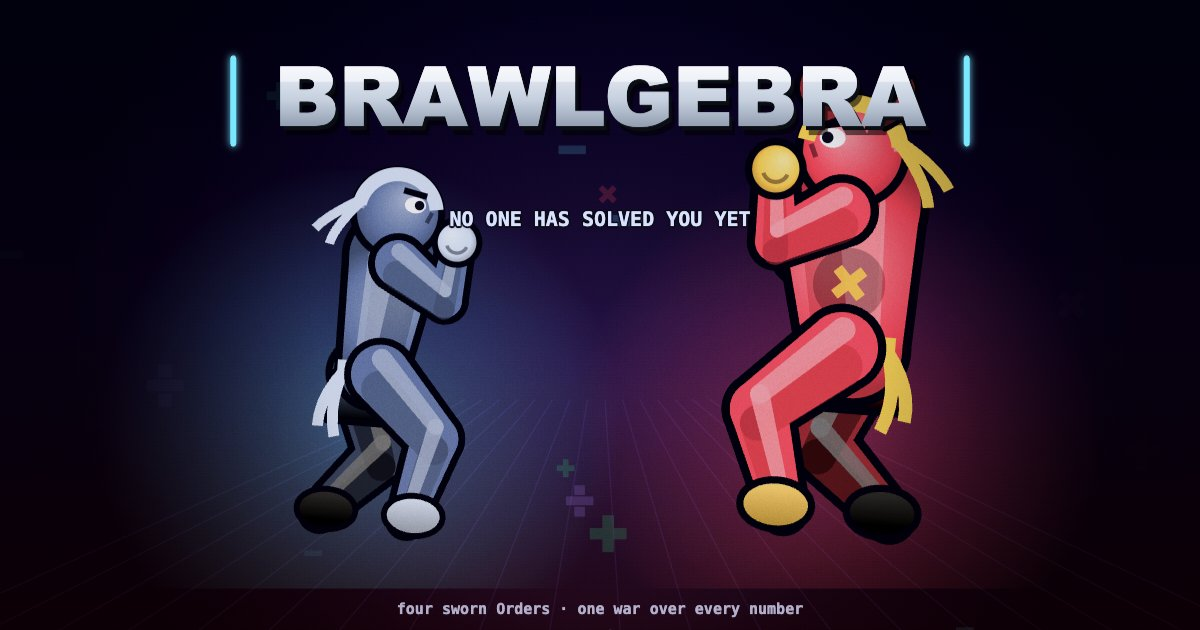
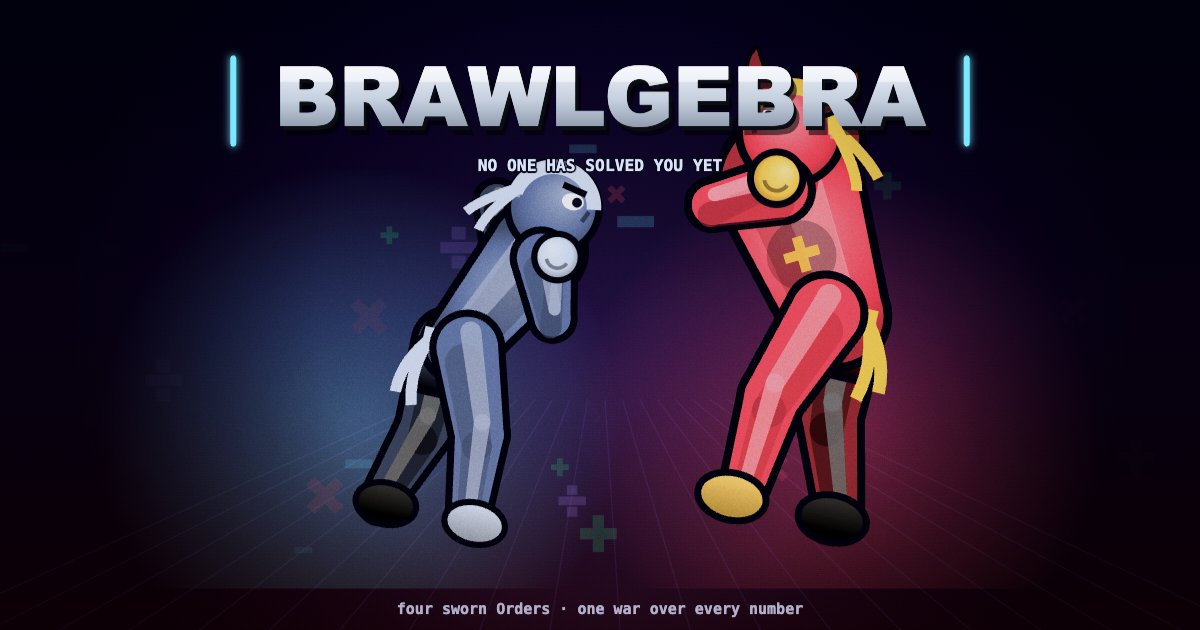
visual pass 2/2: the art-director worklist — 13 ranked fixes from a 4-critic screenshot review
Four design critics reviewed 23 real 960x540 screenshots of every screen; a lead art director synthesized their findings into a ranked, code-anchored worklist. Landed:
#1 Dev text can no longer ship inside the Steam art: the keyart hint/toast are gated behind !_exportLock, so all 8 exported capsules + og-image render clean. Tagline moved off the fighters' heads into the lockup.
#2/#3 Select screen: the card's bottom stack (SPECIALS/style chip/sig lines) now ends inside the 330px card; the sealed padlock moved off the fighter's NAME into the dimmed portrait.
#4 Records rebuilt as two full-width bands — best scores in a 3x2 grid, achievements in a CLIPPED 2x6 grid (two critics called the old overflowing panel 'the definitive no-studio-touched-this shot'); rewards inset inside the panel.
#5 Trailer HUD rides 52px below the letterbox — health bars, names, and the timer were being decapitated at y=46 in every trailer gameplay shot.
#6 Chip/quote/card lanes separated: tagged story shots lift their quote to H-170; fight-shot chip subs width-clamp so they never slide under the math card.
#7 Pause owns the frame: scrim 0.72→0.92, fight text layers (card/tips/control column) stand down while paused, THINGS TO TRY re-spaced to a 30px rhythm.
#8 Dialogue speaker names ride a bordered TAB that notches the panel — no more strikethrough baseline on every story line.
#9 Special-announce banners sit on a scrim pill with width-clamped type — a red banner now survives a red sunset.
[…]

Changed region(s): [[0.2467, 0.0905, 0.8017, 0.8746], [0.4625, 0.7238, 0.5242, 0.8746]]

diff --git a/index.html b/index.html
@@ -2464,7 +2464,8 @@ function drawFighter(f){
     const tc = lv==='high'?'#ff9f2a' : lv==='low'?'#2ea8ff' : '#ff4040';
     const popS = f.attack.pop>0? eoBack(1-f.attack.pop/8):1;
     const by = f.y-182 - Math.abs(Math.sin(game.frame*0.18))*7;
-    ctx.save(); ctx.translate(f.x,by); ctx.scale(popS,popS);
+    const _th=(W/2)/cam.z, _tx=clamp(f.x, cam.x-_th+52, cam.x+_th-52);   // the read must stay whole even at the camera edge
+    ctx.save(); ctx.translate(_tx,by); ctx.scale(popS,popS);
     txtO('!',0,0,30,tc,{sw:5});
     if(lv!=='mid') txtO(lv==='high'?'▲ HIGH':'▼ LOW',0,18,10,tc,{mono:true,sw:0});
     ctx.restore();
@@ -4069,14 +4070,15 @@ function hpBar(f, side){ // side: 1 = left, -1 = right
   ctx.textAlign= side===1?'left':'right';
   const nx = side===1? 40 : W-40;
   ctx.fillText(f.name, nx, 76);
+  const _nw=ctx.measureText(f.name).width;   // pips sit off the MEASURED name — hard-coded 110 landed them inside 'MAXIMILIAN'
   const wins = side===1? game.pWins||0 : game.eWins||0;
   for(let i=0;i<2;i++){
-    const px = side===1? 110+i*16 : W-110-i*16;
+    const px = side===1? 40+_nw+16+i*16 : W-40-_nw-16-i*16;
     ctx.save(); ctx.translate(px,71); ctx.rotate(Math.PI/4);
     ctx.fillStyle = wins>i? (side===1?'#ffd34d':'#ff7a4d') : 'rgba(255,255,255,0.14)';
     ctx.fillRect(-4,-4,8,8); ctx.restore();
   }
-  if(f===game.player && !game.galaxy && !game.cinema){ // CONTROL COLUMN (top-left): the non-obvious keys + your 3-special ladder, lit only by what your AURA can pay for (hidden in cinema/trailer — it's teaching UI, not footage)
+  if(f===game.player && !game.galaxy && !game.cinema && !game.paused){ // CONTROL COLUMN (top-left): the non-obvious keys + your 3-special ladder, lit only by what your AURA can pay for (hidden in cinema/trailer/pause — it's teaching UI, not footage)
     const kit=spKitFor(f.char), bt=bestSpecialTier(f);
     ctx.textAlign='left'; ctx.textBaseline='alphabetic';
     let cy=98;
@@ -4462,12 +4464,15 @@ function drawBanners(){
     ctx.restore();
     if(game.mathT<120) txtO('Q.E.D.', W/2, 300, 16, '#ffd34d',{mono:true,sw:3});
   }
-  if(game.banner){ // announcements (PERFECT DODGE etc.)
+  if(game.banner){ // announcements (PERFECT DODGE etc.) — on a scrim pill, width-clamped, so a red banner survives a red sunset
     const b=game.banner, p=clamp(b.t*5,0,1);
     ctx.save(); ctx.translate(W/2,180);
     ctx.scale(eoBack(p),eoBack(p));
     ctx.globalAlpha = b.t<0.65?1:1-(b.t-0.65)/0.35;
-    txtO(b.txt,0,0,38,b.col,{sw:6});
+    ctx.font=font(DISP,38); const _bw=ctx.measureText(b.txt).width;
+    const _bs=_bw>W-160? 30:38, _bw2=_bs===38?_bw:ctx.measureText(b.txt).width*30/38;
+    ctx.fillStyle='rgba(4,5,12,0.55)'; rr(-_bw2/2-18,-34,_bw2+36,46,8); ctx.fill();
+    txtO(b.txt,0,0,_bs,b.col,{sw:8});
     ctx.restore(); ctx.globalAlpha=1;
   }
 }
@@ -4500,7 +4505,7 @@ function drawVS(t){ // round-1 splash — names crash in from the wings
   if(game._glossShow && VS_GLOSS[game.enemy.char.id] && t>0.62)
     txtO('▸ '+VS_GLOSS[game.enemy.char.id], W/2, 344, 12, '#7ae8ff',{mono:true,sw:0,alpha:clamp((t-0.62)*3,0,1)});   // v5 #14 the matchup gloss — the roster's best argument, finally stated
 }
-function diffRect(i){ return {x:W/2-186+i*128, y:466, w:118, h:18}; }
+function diffRect(i){ return {x:W/2-186+i*128, y:478, w:118, h:18}; }
 function startRect(){ return {x:W/2-150, y:446, w:300, h:50}; }
 const TAGS=['Draw. Hold. Erase.',
   'They mastered one operation. You will master four.',
@@ -4543,7 +4548,7 @@ function drawDailyBadge(){     // surfaces the Daily + at-risk streak EXACTLY wh
   const pulse = 0.6+Math.sin(game.frame*0.12)*0.4;
   let line1, col1, line2='';
   if(!playedToday){
-    line1="◆ TODAY'S FIGHT — NOT PLAYED YET"; col1='#22D3EE';
+    line1="◆ TODAY'S FIGHT — NOT PLAYED YET"; col1='#7ae8ff';
     if(st.n<=0) line2='win today to start a streak';
     else if(st.last===day-1) line2='✦ '+st.n+'-DAY STREAK · play before midnight to keep it';
     else if(st.last===day-2) line2 = st.usedFreeze
@@ -4603,16 +4608,19 @@ function drawKeyArt(){   // a dedicated hero composition for the store capsule /
     ctx.globalAlpha=0.10+0.10*Math.sin(game.frame*0.02+i*1.3); ctx.fillStyle=['#46e08a','#7ae8ff','#b48cff','#ff5a6a'][i%4];
     ctx.font=font(DISP, 26+(i%3)*14); ctx.fillText(['+','−','÷','×'][i%4], x, y); }
   ctx.globalAlpha=1; ctx.restore();
-  const fL=cutsceneFighter(PROTAG); fL.facing=1; try{fL.update(false);}catch(e){}     // two heroes leaning into the clash
+  const fL=cutsceneFighter(PROTAG); fL.facing=1; try{fL.update(false);}catch(e){}     // two heroes DRIVING into the clash glow, not standing beside it (art-director pass)
   const fR=cutsceneFighter(ROSTER[0]); fR.facing=-1; try{fR.update(false);}catch(e){}
-  ctx.save(); ctx.translate(W*0.30,H*0.80); ctx.scale(2.5,2.5); drawPose(fL,fL.P,0,0,1,null,-0.08); ctx.restore();
-  ctx.save(); ctx.translate(W*0.70,H*0.80); ctx.scale(2.7,2.7); drawPose(fR,fR.P,0,0,1,null,0.08); ctx.restore();
+  fL.P.lean+=0.15; fL.P.crouch-=4; fR.P.lean+=0.15; fR.P.crouch-=4;   // spine into the fight — the body-acting the cutscenes already use
+  ctx.save(); ctx.translate(W*0.35,H*0.80); ctx.scale(2.6,2.6); drawPose(fL,fL.P,0,0,1,null,-0.22); ctx.restore();
+  ctx.save(); ctx.translate(W*0.66,H*0.80); ctx.scale(2.6,2.6); drawPose(fR,fR.P,0,0,1,null,0.22); ctx.restore();
   gradeFrame(); vignette();
   drawWordmark(W/2, 116, 1.18);
-  txtO('NO ONE HAS SOLVED YOU YET', W/2, 196, 16, '#d8e2ff', {mono:true,sw:3});
+  txtO('NO ONE HAS SOLVED YOU YET', W/2, 152, 13, '#d8e2ff', {mono:true,sw:3});   // tucked into the lockup, off the fighters' heads
   txtO('four sworn Orders · one war over every number', W/2, H-34, 12, 'rgba(205,205,235,0.85)', {mono:true,sw:0});
-  txtO('E  export the Steam art pack (8 sizes)  ·  any other key returns', W/2, H-14, 9, 'rgba(150,150,180,0.6)', {mono:true,sw:0});
-  if(game._exportToast && game.frame-game._exportToast<240) txtO('exported — check your downloads', W/2, H-34, 11, '#46e08a', {mono:true,sw:0});
+  if(!window._exportLock){   // dev chrome NEVER ships inside the exported store art
+    txtO('E  export the Steam art pack (8 sizes)  ·  any other key returns', W/2, H-14, 9, 'rgba(150,150,180,0.6)', {mono:true,sw:0});
+    if(game._exportToast && game.frame-game._exportToast<240) txtO('exported — check your downloads', W/2, H-52, 11, '#46e08a', {mono:true,sw:0});
+  }
 }
 // ---- MARKETING EXPORTER (audit v7 #6): E on the KEY ART screen → the full Steam-sized capsule pack · F9 anywhere → a 1920×1080 PNG of the live frame.
 // The game is vector-drawn, so re-rendering at scale is CRISP — no upscale blur. Without these files the $100 page-creation day physically cannot happen.
@@ -4667,7 +4675,7 @@ const TRAILER=[
  // ---- ACT 1b · THE NAME (11.2s): now that they believe it, tell them what it's called ----
  {type:'title', dur:144},
  // ---- ACT 2 · HOW IT WORKS (13.6-24.5s): five beats of plain speech, ending exactly on the 24s hit ----
- {type:'fight', p:'oracle', e:'ember', stage:'schism', gap:96, dur:174, slow:[58,84], flash:true, tag:{t:'TYPE THE ANSWER', s:'it becomes AURA. everything costs AURA.'},
+ {type:'fight', p:'oracle', e:'ember', stage:'schism', gap:96, dur:174, slow:[58,84], flash:true, tag:{t:'TYPE THE ANSWER', s:'it becomes AURA. AURA is ammo.'},
   pose:(p,e)=>{ p.aura=12; },
   script:[{at:6,fn:()=>_paStart()},{at:20,fn:()=>_paType(1)},{at:34,fn:()=>_paType(2)},{at:48,fn:()=>_paType(3)},{at:60,fn:()=>_ta()},   // the PROOF: problem read, answer typed digit by digit, banked
           {at:80,fn:p=>p.tryDash(1)},{at:92,fn:p=>p.tryAttack('kick')},{at:116,fn:p=>p.tryAttack('kick')},{at:142,fn:p=>p.trySpecial()}]},
@@ -4872,7 +4880,7 @@ function drawTrailerShot(){   // v4 cinematic story vignette — Ken Burns push-
     const spd=S.spd||0.55, start=S.tAt==null?10:S.tAt;
     const shown=S.t.slice(0, Math.max(0,Math.floor((t-start)*spd)));
     if(shown){
-      const ty=S.center? H/2+6 : H-96;   // the whisper speaks from the CENTER of the dark, not a lower third
+      const ty=S.center? H/2+6 : (S.tag? H-170 : H-96);   // the whisper speaks from the CENTER; a tagged shot lifts its quote clear of the chip lane
       if(S.w) txtO(S.w==='YOU'?(game.heroName||'YOU').toUpperCase():S.w, W/2, ty-28, 12, S.c||'#cfe0ff',{mono:true,sw:0});
       if(S.center){ const _ww=S.wrapW||W*0.44;   // a narrow column reads like a voice, and the lines break balanced
         ctx.font=font(S.mono?MONO:DISP, S.size||17);
@@ -4912,7 +4920,10 @@ function drawTrailerOverlay(){
     ctx.save(); ctx.globalAlpha=a;
     ctx.fillStyle='#7ae8ff'; ctx.fillRect(bx-14,by-20,4,S.tag.s?40:26);
     txtO(S.tag.t, bx, by, 21, '#f2f5ff', {align:'left',sw:5});
-    if(S.tag.s) txtO(S.tag.s, bx, by+20, 11, '#9fb0c8', {align:'left',mono:true,sw:0});
+    if(S.tag.s){ let sub=S.tag.s; ctx.font=font(MONO,11);   // clamp (fight shots only): a sub may never slide under the centered math card's left edge
+      const maxW = game.state==='fight'? W/2-210-bx : W-2*bx;
+      while(sub.length>8 && ctx.measureText(sub).width>maxW) sub=sub.slice(0,-2);
+      txtO(sub===S.tag.s? sub : sub.replace(/[ ·.]+$/,'')+'…', bx, by+20, 11, '#9fb0c8', {align:'left',mono:true,sw:0}); }
     ctx.restore();
   }
   if(S.flash && tr.t<4){ ctx.fillStyle='rgba(240,246,255,'+(0.55*(1-tr.t/4)).toFixed(3)+')'; ctx.fillRect(0,0,W,H); }   // 4-tick white flash = a HARD cut, not a dissolve
@@ -4932,21 +4943,25 @@ function drawTitle(){
   // rotating line — secondary
   const tag=TAGS[Math.floor(game.frame/260)%TAGS.length];
   txtO(tag, W/2, 260, 11, 'rgba(150,160,185,0.7)', {mono:true, sw:0});
-  // mode menu
+  // mode menu — 28px rhythm + a real type step between selected and idle (art-director pass)
+  ctx.save();   // column scrim: the menu reads on ink, not on whatever stage prop drifts behind it
+  const _ms=ctx.createLinearGradient(0,120,0,470);
+  _ms.addColorStop(0,'rgba(3,2,10,0.72)'); _ms.addColorStop(1,'rgba(3,2,10,0)');
+  ctx.fillStyle=_ms; ctx.fillRect(W/2-300,110,600,370); ctx.restore();
   game.menuRects=[];
   MENU.forEach((m,i)=>{
-    const sel=i===game.menuIdx, y=284+i*22;
-    const r={x:W/2-180,y:y-14,w:360,h:21};
+    const sel=i===game.menuIdx, y=284+i*28;
+    const r={x:W/2-180,y:y-17,w:360,h:26};
     game.menuRects.push(r);
     const hov=mouse.x>r.x&&mouse.x<r.x+r.w&&mouse.y>r.y&&mouse.y<r.y+r.h;
-    if(sel){ rr(r.x,r.y,r.w,r.h,6);
-      ctx.fillStyle='rgba(50,32,80,0.9)'; ctx.fill();
+    if(sel){ rr(r.x,r.y,r.w,r.h,8);
+      ctx.fillStyle='rgba(255,211,77,0.10)'; ctx.fill();
       ctx.strokeStyle='#ffd34d'; ctx.lineWidth=2; ctx.stroke();
-      txtO('▸', r.x+16, y+1, 13, '#ffd34d',{sw:0}); }
-    txtO(m[0], W/2, y+1, 14, sel? '#ffd34d': i===0? '#ffd0d6': hov?'#e8ecff':'#a99cc8', {sw:0});
+      txtO('▸', r.x+16, y+1, 14, '#ffd34d',{sw:0}); }
+    txtO(m[0], W/2, y+2, sel?16:13, sel? '#ffd34d': i===0? '#ffd0d6': hov?'#e8ecff':'#a99cc8', {sw:0});
   });
   if(MENU[game.menuIdx][1])
-    txtO(MENU[game.menuIdx][1], W/2, 432, 10, 'rgba(200,190,230,0.85)',{mono:true,sw:0});
+    txtO(MENU[game.menuIdx][1], W/2, 452, 10, 'rgba(200,190,230,0.85)',{mono:true,sw:0});
   // difficulty chips
   for(let i=0;i<3;i++){
     const r=diffRect(i), sel=DIFF.level===i;
@@ -4956,7 +4971,7 @@ function drawTitle(){
     txtO((i+1)+' '+DIFF.names[i], r.x+r.w/2, r.y+14, 11, sel?'#ffd34d':'#9a8fb8',{mono:true,sw:0});
   }
   txtO('W/S navigate · ⏎ select · R records · M music', W/2, 506, 10, 'rgba(160,150,190,0.75)',{mono:true,sw:0});
-  txtO('T trailer  ·  V showcase  ·  K key art', W/2, 526, 9, 'rgba(150,150,190,0.55)',{mono:true,sw:0});
+  if(window.DEBUG_HOTKEYS) txtO('T trailer  ·  V showcase  ·  K key art', W/2, 526, 9, 'rgba(150,150,190,0.55)',{mono:true,sw:0});   // capture keys keep WORKING; the printed line is dev chrome (flip window.DEBUG_HOTKEYS=true in the console to show it)
 }
 function welcomeDiffRect(i){ return {x:W/2-237+i*162, y:398, w:150, h:40}; }
 const DIFF_AGES=['ages 8-10','ages 10-13','ages 13+'];   // parent legibility: the band names the buyer's kid
@@ -4984,10 +4999,10 @@ function drawWelcome(){   // first-run gate: pick your math level, then teach be
 }
 function drawModes(){
   ctx.fillStyle='rgba(3,2,10,0.55)'; ctx.fillRect(0,0,W,H);
-  txtO('MORE MODES', W/2, 116, 38, '#efe9ff', {sw:6});
+  txtO('MORE MODES', W/2, 54, 30, '#efe9ff', {sw:6});
   game.modeRects=[];
   MODES_SUB.forEach((m,i)=>{
-    const sel=i===game.modeIdx, y=196+i*54;
+    const sel=i===game.modeIdx, y=150+i*58;
     const r={x:W/2-230,y:y-22,w:460,h:46}; game.modeRects.push(r);
     const hov=mouse.x>r.x&&mouse.x<r.x+r.w&&mouse.y>r.y&&mouse.y<r.y+r.h, on=sel||hov;
     rr(r.x,r.y,r.w,r.h,10);
@@ -5001,23 +5016,24 @@ function drawModes(){
   ctx.strokeStyle='#3d2658'; ctx.lineWidth=1.2; ctx.stroke();
   txtO('‹ BACK   (T)', W/2, 461, 12, '#a99cc8', {mono:true,sw:0});
 }
-const MP_OPTS=[
-  ['⚔  1v1 DUEL  (online)','you vs ONE friend, live — share a link & a 4-letter code'],
-  ['👥  RUMBLE  (online)','up to 5 friends in one brawl — AI fills any empty seats'],
-  ['🕹  RUMBLE  (same screen)','5-fighter free-for-all vs the computer, right here'],
+const MP_OPTS=[   // no emoji — they rasterize differently on every OS (the fastest asset-flip tell); drawn accent bars instead (see drawRumbleChoose)
+  ['1v1 DUEL  (online)','you vs ONE friend, live — share a link & a 4-letter code'],
+  ['RUMBLE  (online)','up to 5 friends in one brawl — AI fills any empty seats'],
+  ['RUMBLE  (same screen)','5-fighter free-for-all vs the computer, right here'],
 ];
 function drawRumbleChoose(){
   ctx.fillStyle='rgba(3,2,10,0.55)'; ctx.fillRect(0,0,W,H);
-  txtO('MULTIPLAYER', W/2, 104, 38, '#efe9ff', {sw:6});
-  txtO('pick how you want to fight', W/2, 140, 12, '#cabbe0', {mono:true,sw:0});
+  txtO('MULTIPLAYER', W/2, 54, 30, '#efe9ff', {sw:6});
+  txtO('pick how you want to fight', W/2, 78, 12, '#cabbe0', {mono:true,sw:0});
   game.rumbleRects=[];
   MP_OPTS.forEach((o,i)=>{
-    const sel=i===(game.mpIdx||0), y=192+i*66;
+    const sel=i===(game.mpIdx||0), y=140+i*66;
     const r={x:W/2-250,y:y-26,w:500,h:54}; game.rumbleRects.push(r);
     const hov=mouse.x>r.x&&mouse.x<r.x+r.w&&mouse.y>r.y&&mouse.y<r.y+r.h, on=sel||hov;
     rr(r.x,r.y,r.w,r.h,10);
     ctx.fillStyle=on?'rgba(50,32,80,0.92)':'rgba(18,14,32,0.85)'; ctx.fill();
     ctx.strokeStyle=on?'#ffd34d':'#3d2658'; ctx.lineWidth=on?2.4:1.2; ctx.stroke();
+    ctx.fillStyle=['#ffd34d','#b48cff','#7ae8ff'][i]; ctx.fillRect(r.x+14, r.y+10, 4, r.h-20);   // the accent-bar language the trailer chips already speak
     txtO(o[0], W/2, y-3, 18, on?'#ffd34d':'#e8ecff', {sw:0});
     txtO(o[1], W/2, y+17, 11, 'rgba(200,190,230,0.85)', {mono:true,sw:0});
   });
@@ -5582,7 +5598,10 @@ function drawDialogue(){
   rr(bx,by,bw,bh,12); ctx.fillStyle='rgba(6,7,14,0.92)'; ctx.fill();
   ctx.lineWidth=2.5; ctx.strokeStyle=line.c; ctx.stroke();
   const speaker = line.w==='YOU' ? (game.heroName||'YOU').toUpperCase() : line.w;
-  txtO(speaker, bx+26, by-1, 17, line.c, {align:'left',sw:4});
+  { ctx.font=font(DISP,17); const nw=ctx.measureText(speaker).width;   // the name rides a TAB that notches the border — no more strikethrough baseline
+    rr(bx+16, by-14, nw+24, 28, 8); ctx.fillStyle='rgba(6,7,14,0.96)'; ctx.fill();
+    ctx.lineWidth=2.5; ctx.strokeStyle=line.c; ctx.stroke();
+    txtO(speaker, bx+28, by+6, 17, line.c, {align:'left',sw:0}); }
   // typewriter reveal across the fixed wrapped lines
   const spd=lineSpeed(line);
   const full=line.t.length, shownN = d.skip? full : Math.min(full, Math.floor(t*spd));
@@ -5687,13 +5706,13 @@ function drawSelect(){
         let nm=(t+1)+'  '+kit[t].name, bf=9.5; ctx.font=font(MONO,bf); ctx.textAlign='center';
         while(ctx.measureText(nm).width>cw-18 && bf>6.5){ bf-=0.5; ctx.font=font(MONO,bf); }
         ctx.fillStyle = t===2? (c.gi||'#ffd34d') : '#cdd6ee';
-        ctx.fillText(nm, x+cw/2, y+250+t*16);
+        ctx.fillText(nm, x+cw/2, y+246+t*14);   // art-director pass: the whole bottom stack now ends INSIDE the 330px card
       } }
     { const st=STYLE_BY_ID[c.id]; if(st){   // play-style chip — the mechanical read a picker needs at a glance
-        rr(x+26, y+300, cw-52, 20, 6); ctx.fillStyle=sel?'rgba(255,211,77,0.16)':'rgba(120,160,220,0.12)'; ctx.fill();
-        txtO(st, x+cw/2, y+314, 10, (c.gi||'#8fd8f8'),{mono:true,sw:0}); } }
-    { const sg=SIG_BY_ID[c.id]; if(sg) txtO('◆ '+sg, x+cw/2, y+332, 8, sel?(c.gi||'#ffd34d'):'#9aa6c8',{mono:true,sw:0}); }   // signature-verb read — what to learn on this fighter
-    { const s2=SIG2_BY_ID[c.id]; if(s2) txtO('◇ '+s2, x+cw/2, y+344, 7.5, sel?'#cdd6ee':'#7a86a8',{mono:true,sw:0}); }   // v6 #9 the exclusive route
+        rr(x+26, y+284, cw-52, 20, 6); ctx.fillStyle=sel?'rgba(255,211,77,0.16)':'rgba(120,160,220,0.12)'; ctx.fill();
+        txtO(st, x+cw/2, y+298, 10, (c.gi||'#8fd8f8'),{mono:true,sw:0}); } }
+    { const sg=SIG_BY_ID[c.id]; if(sg) txtO('◆ '+sg, x+cw/2, y+312, 8.5, sel?(c.gi||'#ffd34d'):'#9aa6c8',{mono:true,sw:0}); }   // signature-verb read — what to learn on this fighter
+    { const s2=SIG2_BY_ID[c.id]; if(s2) txtO('◇ '+s2, x+cw/2, y+324, 8, sel?'#cdd6ee':'#7a86a8',{mono:true,sw:0}); }   // v6 #9 the exclusive route
     // (blurb dropped from the card — the tagline + SPECIALS kit carry identity now, and the 5-card layout is too narrow for it)
     if(!game.mode2p){ // best grade at this difficulty (versus or tower, whichever ranks higher)
       const b1=bests[c.id+'_'+DIFF.level], b2=bests['tower_'+c.id+'_'+DIFF.level];
@@ -5706,9 +5725,9 @@ function drawSelect(){
     if(charLocked(c)){   // an Order, sealed until the campaign is won
       rr(x,y,cw,chh,12); ctx.fillStyle='rgba(4,5,12,0.78)'; ctx.fill();
       ctx.strokeStyle=sel?'#ffd34d':'#3a3354'; ctx.lineWidth=sel?2.5:1.5; ctx.stroke();
-      ctx.save(); ctx.strokeStyle='#8a93b8'; ctx.lineWidth=2.4;   // a small drawn padlock (no emoji)
-      ctx.strokeRect(x+cw/2-11, y+150, 22, 17);
-      ctx.beginPath(); ctx.arc(x+cw/2, y+150, 8, Math.PI, 0); ctx.stroke(); ctx.restore();
+      ctx.save(); ctx.strokeStyle='#8a93b8'; ctx.lineWidth=2.4;   // a small drawn padlock (no emoji) — centered in the dimmed portrait, OFF the fighter's name
+      ctx.strokeRect(x+cw/2-11, y+64, 22, 17);
+      ctx.beginPath(); ctx.arc(x+cw/2, y+64, 8, Math.PI, 0); ctx.stroke(); ctx.restore();
       txtO('SEALED', x+cw/2, y+196, 16, '#cabbe0',{sw:3});
       txtO((game.storyProg||0)+' / '+(ORDER_UNLOCK[c.id]||STORY.length)+' chapters won', x+cw/2, y+218, 9.5, '#8a93b8',{mono:true,sw:0});
       txtO('keep going to unlock', x+cw/2, y+232, 9.5, '#8a93b8',{mono:true,sw:0});
@@ -5767,7 +5786,7 @@ function drawSelect(){
 }
 function drawSettings(){
   ctx.fillStyle='rgba(2,3,8,0.8)'; ctx.fillRect(0,0,W,H);
-  txtO('SETTINGS', W/2, 60, 32, '#efe9ff',{sw:6});
+  txtO('SETTINGS', W/2, 54, 30, '#efe9ff',{sw:6});
   rr(W/2-300,84,600,396,14);
   ctx.fillStyle='rgba(12,15,26,0.95)'; ctx.fill();
   ctx.strokeStyle='#2c3548'; ctx.lineWidth=1.5; ctx.stroke();
@@ -5876,32 +5895,31 @@ function drawRecords(){
   const p=game.profile||load('profile',freshProfile());
   txtO((game.heroName?'INITIATE '+game.heroName.toUpperCase()+'   ·   ':'')+(p.matches||0)+' matches · '+(p.wins||0)+' wins',
        W/2, 78, 11, '#9aa3c8',{mono:true,sw:0});
-  // left panel — best scores per mode
-  const lx=80, ly=130;
-  rr(lx-22, ly-30, 384, 252, 12); ctx.fillStyle='rgba(12,15,26,0.9)'; ctx.fill(); ctx.strokeStyle='#2c3548'; ctx.lineWidth=1.5; ctx.stroke();
-  txtO('BEST SCORES', lx+170, ly-10, 13, '#8fd8f8',{sw:0});
+  // ART-DIRECTOR REBUILD: two full-width bands — a panel that cannot contain its content is the loudest "no studio touched this" signal, so the achievement grid is CLIPPED to its panel by construction.
+  // band (a) — best scores: 3 cols × 2 rows
+  rr(58, 100, 844, 84, 12); ctx.fillStyle='rgba(12,15,26,0.92)'; ctx.fill(); ctx.strokeStyle='#2c3548'; ctx.lineWidth=1.5; ctx.stroke();
+  txtO('BEST SCORES', 80, 122, 13, '#8fd8f8',{align:'left',sw:0});
+  txtO('best streak ×'+(p.bestStreak||0)+' · '+(p.correct||0)+' solved · '+(p.perfects||0)+' perfect dodges', 880, 122, 10, '#8a93b8',{align:'right',mono:true,sw:0});
   const modes=[['overall','OVERALL'],['cpu','PLAY · 1v1'],['gauntlet','GAUNTLET'],['tower','THE TOWER'],['story','STORY'],['rumble','RUMBLE']];   // v8 one name per mode, everywhere
-  let y=ly+22;
-  for(const [k,label] of modes){
-    ctx.font=font(MONO,13); ctx.textAlign='left'; ctx.fillStyle=k==='overall'?'#ffd34d':'#a99cc8'; ctx.fillText(label, lx, y);
-    ctx.textAlign='right'; ctx.fillStyle=k==='overall'?'#ffd34d':'#e8ecff'; ctx.fillText(fmtScore((p.best&&p.best[k])||0), lx+338, y);
-    if(k==='overall'){ y+=8; ctx.strokeStyle='rgba(255,255,255,0.08)'; ctx.beginPath(); ctx.moveTo(lx,y-2); ctx.lineTo(lx+338,y-2); ctx.stroke(); }
-    y+=28;
-  }
-  txtO('best streak ×'+(p.bestStreak||0)+'  ·  '+(p.correct||0)+' solved  ·  '+(p.perfects||0)+' perfect dodges', lx+170, y+6, 10, '#8a93b8',{mono:true,sw:0});
-  // right panel — achievement checklist
-  const rx=W/2+44, ry=130, ach=achievements(), got=ach.filter(a=>a.done).length;
-  rr(rx-22, ry-30, 420, 320, 12); ctx.fillStyle='rgba(12,15,26,0.9)'; ctx.fill(); ctx.strokeStyle='#2c3548'; ctx.lineWidth=1.5; ctx.stroke();
-  txtO('ACHIEVEMENTS   '+got+' / '+ach.length, rx+188, ry-10, 13, '#8fd8f8',{sw:0});
-  let ay=ry+20;
-  for(const a of ach){
-    txtO(a.done?'✓':'○', rx, ay, 14, a.done?'#46e08a':'#5a5470',{align:'left',sw:0});
-    txtO(a.name, rx+26, ay, 13, a.done?'#e8ecff':'#8a93b8',{align:'left',sw:0});
-    if(a.reward) txtO(a.reward, rx+376, ay, 9, a.done?'#46e08a':'#ffd34d',{align:'right',mono:true,sw:0});
-    ctx.font=font(MONO,9.5); ctx.textAlign='left'; ctx.fillStyle='#6a7090'; ctx.fillText(a.desc, rx+26, ay+15);
-    ay+=39;
-  }
-  txtO('Esc / T  ·  back to title', W/2, H-28, 11, '#8a93b8',{mono:true,sw:0});
+  modes.forEach(([k,label],i)=>{
+    const cx0=80+(i%3)*292, cy=146+Math.floor(i/3)*26;
+    ctx.font=font(MONO,12); ctx.textAlign='left'; ctx.fillStyle=k==='overall'?'#ffd34d':'#a99cc8'; ctx.fillText(label, cx0, cy);
+    ctx.textAlign='right'; ctx.fillStyle=k==='overall'?'#ffd34d':'#e8ecff'; ctx.fillText(fmtScore((p.best&&p.best[k])||0), cx0+250, cy);
+  });
+  // band (b) — achievements: clipped 2×6 grid
+  const ach=achievements(), got=ach.filter(a=>a.done).length;
+  rr(58, 196, 844, 308, 12); ctx.fillStyle='rgba(12,15,26,0.92)'; ctx.fill(); ctx.strokeStyle='#2c3548'; ctx.lineWidth=1.5; ctx.stroke();
+  txtO('ACHIEVEMENTS   '+got+' / '+ach.length, 80, 222, 13, '#8fd8f8',{align:'left',sw:0});
+  ctx.save(); rr(58, 196, 844, 308, 12); ctx.clip();   // content can NEVER bleed past the border again
+  ach.forEach((a,i)=>{
+    const ax=80+Math.floor(i/6)*430, ay=248+(i%6)*42;
+    txtO(a.done?'✓':'○', ax, ay, 14, a.done?'#46e08a':'#5a5470',{align:'left',sw:0});
+    txtO(a.name, ax+26, ay, 12, a.done?'#e8ecff':'#8a93b8',{align:'left',sw:0});
+    if(a.reward) txtO(a.reward, ax+380, ay, 9, a.done?'#46e08a':'#ffd34d',{align:'right',mono:true,sw:0});
+    ctx.font=font(MONO,9.5); ctx.textAlign='left'; ctx.fillStyle='#6a7090'; ctx.fillText(a.desc, ax+26, ay+14);
+  });
+  ctx.restore();
+  txtO('Esc / T  ·  back to title', W/2, H-20, 11, '#8a93b8',{mono:true,sw:0});
 }
 function drawScoreRow(y){               // prominent SCORE + NEW BEST inside the report panel
   if(game.lastScore==null) return;
@@ -5994,7 +6012,7 @@ function drawMatchEnd(){
   }
   const won=game.playerWon;
   letterBanner(game.daily?'DAILY FIGHT': game.towerDone?'TOWER COMPLETE': won?'VICTORY': (game.mode==='tower'?'TOWER FAILED':'DEFEAT'),
-               130, game.daily||game.towerDone?50:58, game.daily?'#22D3EE': won?'#46e08a':'#ff4d5e', 1);
+               130, game.daily||game.towerDone?50:58, game.daily?'#7ae8ff': won?'#46e08a':'#ff4d5e', 1);
   if(game.daily && game.dailyResult){
     const r=game.dailyResult;
     if(r.practice)
@@ -6185,11 +6203,14 @@ function render(){
   else {
     const tNoHud = game.trailerMode && game.trailer && game.trailer.card && game.trailer.card.hud===false;   // v4 trailer stingers run CLEAN — pure cinema, no HUD
     if(!tNoHud){
+    if(game.trailerMode) { ctx.save(); ctx.translate(0,52); }   // art-director pass: the 46px letterbox was DECAPITATING the bars/timer in every trailer shot — the top HUD rides below it
     if(game.mode==='rumble'){ drawRumbleHUD(); }
-    else { hpBar(game.player,1); hpBar(game.enemy,-1); drawTimer(); drawMinimap(); drawComboMeter(); drawDangerSolve(); drawBurstChallenge(); }
+    else { hpBar(game.player,1); hpBar(game.enemy,-1); drawTimer(); drawMinimap(); drawComboMeter(); }
+    if(game.trailerMode) ctx.restore();
+    if(game.mode!=='rumble'){ drawDangerSolve(); drawBurstChallenge(); }
     drawHudFloats();
     if(game.mode==='story'){ drawTaunt(); drawRuleBanner(); }
-    if(game.state==='fight'){
+    if(game.state==='fight' && !game.paused){   // paused = the pause menu OWNS the frame; the fight text layers stand down
       if(game.galaxy) drawGalaxyHUD();   // GALAXY fight = no math card; show your unlocked combos instead
       else { if(!(game.mode==='rumble'&&game.player.ko)) drawCard();
         if(!game.cinema && (game.rushMeter||0)>=RUSH_MAX && !game.mode2p && !game.player.ko){ const pz=0.55+Math.sin(game.frame*0.3)*0.45; ctx.save(); ctx.globalAlpha=pz; txtO('FOCUS FULL — press R for ONSLAUGHT', W/2, H-142, 14, '#ffd34d', {sw:3}); ctx.restore(); } }
@@ -6210,7 +6231,7 @@ function render(){
     drawBanners();
   }
   if(game.paused){
-    ctx.fillStyle='rgba(3,2,10,0.72)'; ctx.fillRect(0,0,W,H);
+    ctx.fillStyle='rgba(3,2,10,0.92)'; ctx.fillRect(0,0,W,H);   // the pause menu OWNS the frame (was 0.72 — two full UIs superimposed read as a bug)
     txtO('PAUSED', W/2, 96, 38, '#efe9ff',{sw:7});
     const kp=keyLabel(KEYS.punch), kk=keyLabel(KEYS.kick), ks=keyLabel(KEYS.special);
     ['← → move   ·   double-tap = dash (the first backdash dodges hits — repeats cost 4 AURA)',
@@ -6218,17 +6239,17 @@ function render(){
      kp+' punch · '+kk+' kick · '+kp+'+'+kk+' throw · '+ks+' special — every swing spends AURA up front'
     ].forEach((s,i)=> txtO(s, W/2, 150+i*26, 12, '#b8c0da',{mono:true,sw:0}));
     // THINGS TO TRY — the execution layer most players never find (v8 pristine pass: six rows, all code-true)
-    txtO('THINGS TO TRY', W/2, 254, 14, '#ffd34d',{sw:0});
+    txtO('THINGS TO TRY', W/2, 248, 14, '#ffd34d',{sw:0});
     [['CHAIN', 'land a hit, then '+kk+' / '+ks+' inside the CHAIN ▸ flash — the moves link'],
      ['BURST', 'caught in a combo? type the red digit = FREE escape (once per round) · or '+ks+' = 40 AURA'],
      ['SLIP', 'a tinted ! marks a strike — guard its height (↓ for blue ▼, back for orange ▲), then answer the quick problem to SLIP it'],
      ['CHARGED', 'answer while your combo is running — your next blow lands ×1.7'],
      ['TICK THROW', 'they keep blocking? jab their guard, then '+kp+'+'+kk+' — a THROW grabs straight through block'],
      ['GAMBIT', 'some problems offer a wager — G doubles the pay, but a wrong answer wipes your bank']
-    ].forEach((r,i)=>{ const y=282+i*26;
+    ].forEach((r,i)=>{ const y=276+i*30;   // 30px pitch: the desc line gets real air instead of a 3px gap
       txtO(r[0], W/2, y, 12.5, '#7ae8ff',{mono:true,sw:0});
-      txtO(r[1], W/2, y+13, 10, '#aab4d0',{mono:true,sw:0}); });
-    txtO('P  resume   ·   ESC  quit to title   ·   M  music   ·   Alt+⏎  fullscreen', W/2, 446, 12, '#8a93b8',{mono:true,sw:0});
+      txtO(r[1], W/2, y+14, 10, '#aab4d0',{mono:true,sw:0}); });
+    txtO('P  resume   ·   ESC  quit to title   ·   M  music   ·   Alt+⏎  fullscreen', W/2, 474, 12, '#8a93b8',{mono:true,sw:0});
   }
   if(game.online && net.role==='guest') drawNetHealth();   // tell the guest when it's the network, not them
   if(game.trailerMode) drawTrailerOverlay();   // trailer letterbox + scene cross-fades over everything